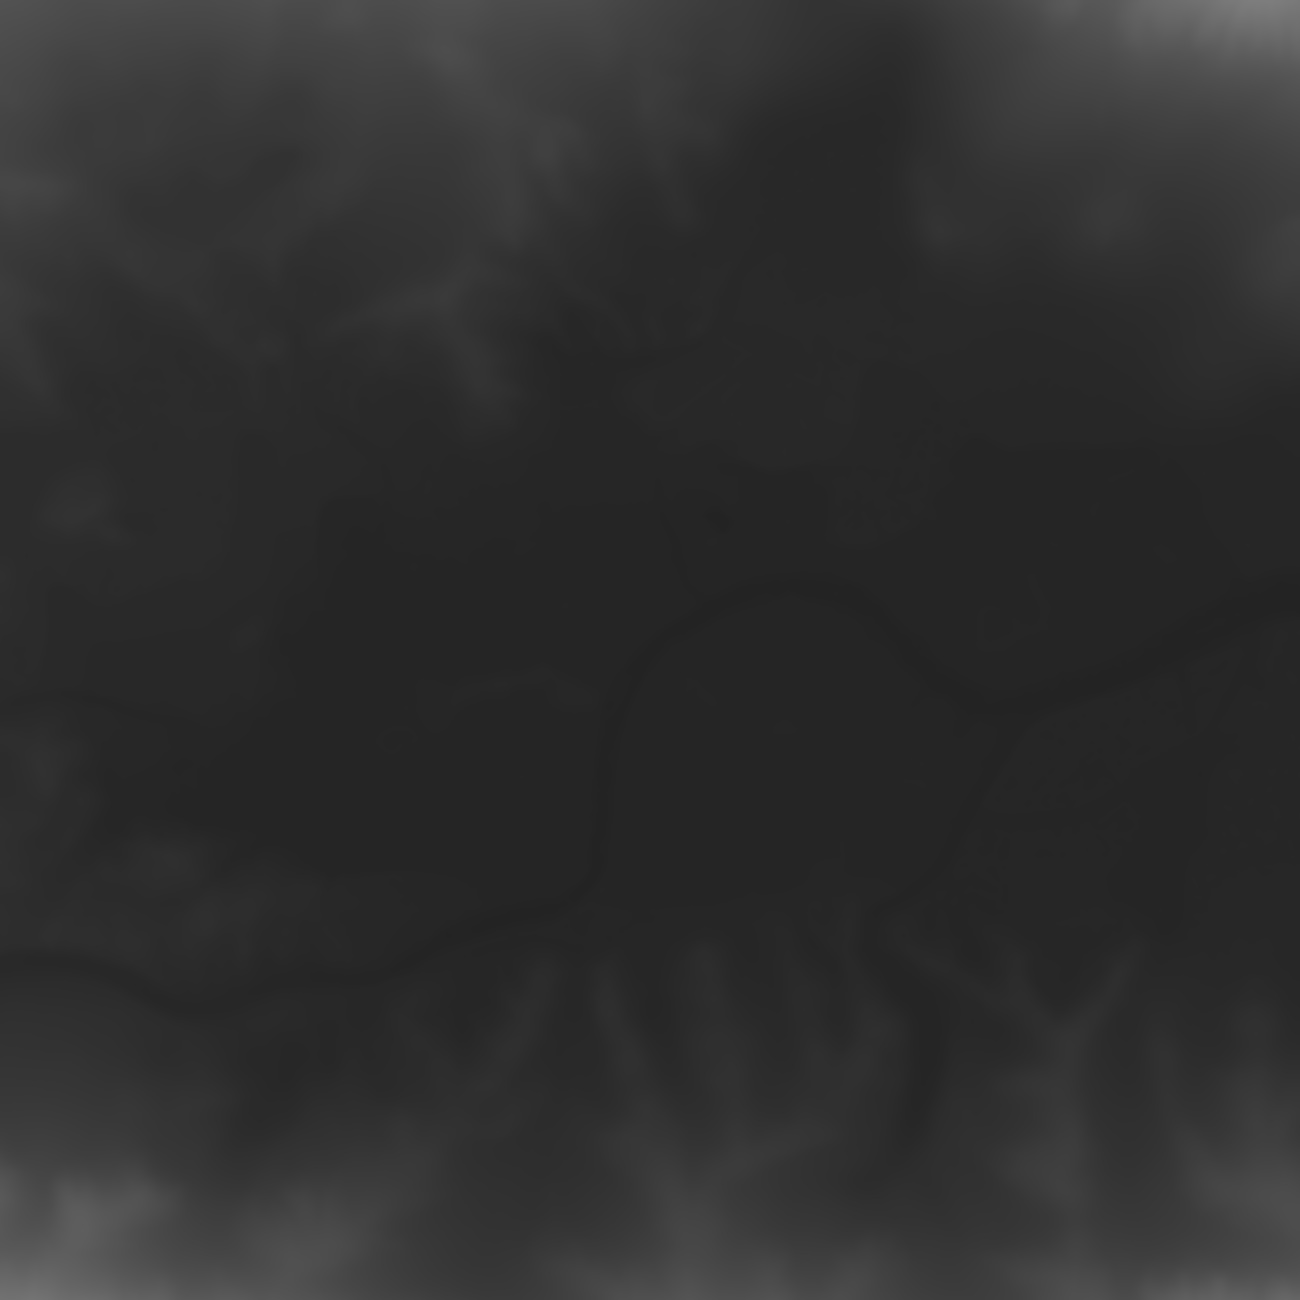
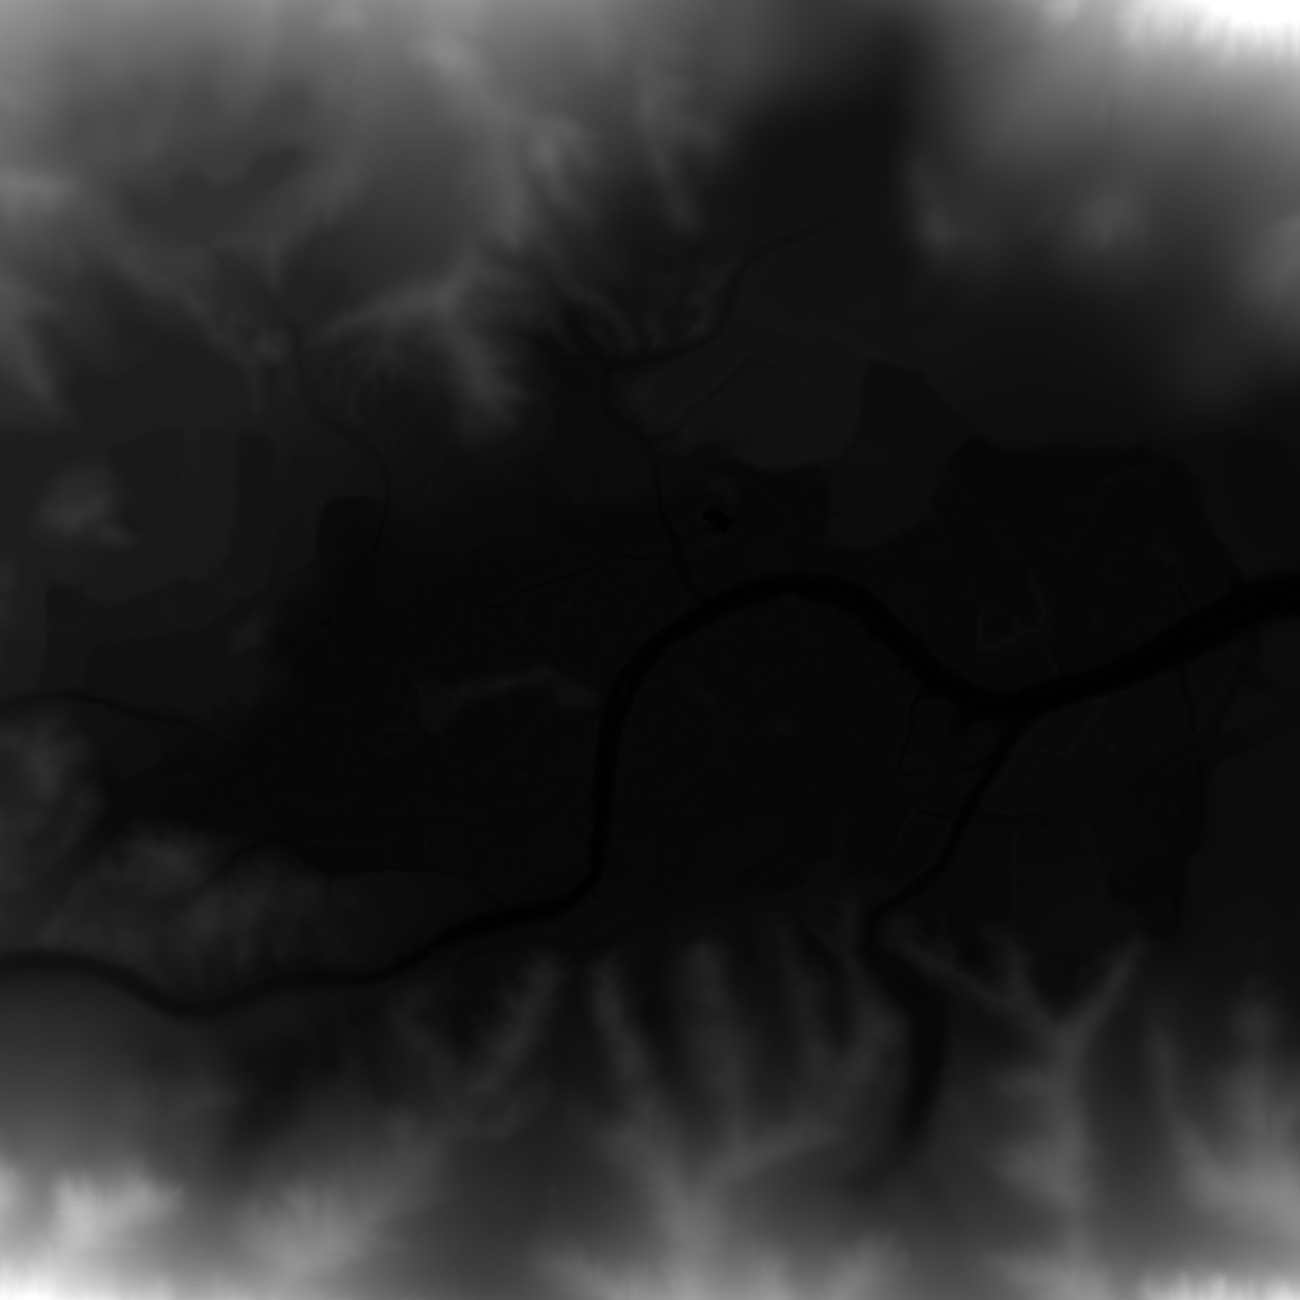
added more heightmaps and optimized existing ones.
added:

* belaya
* chora
* gorodok
* jensens
* logarvalley
* mestia
* yehorivka

optimized:

* foolsroad
* kohat
* sumari

diff --git a/public/js/MAPDATA.js b/public/js/MAPDATA.js
@@ -19,21 +19,21 @@
   }
 
   // imageOverlays for each map
-  // bounds calculated by taking screenshots in-game and counting pixels (of grid)
+  // bounds calculated from Squad SDK
   const albasrah = L.tileLayer("./maps/albasrah/{z}_{x}_{y}.jpg", getTileOps([3200, 3200]));
-  const belaya = L.tileLayer("./maps/belaya/{z}_{x}_{y}.jpg", getTileOps([3913, 3913]));
-  const chora = L.tileLayer("./maps/chora/{z}_{x}_{y}.jpg", getTileOps([4073, 4073]));
+  const belaya = L.tileLayer("./maps/belaya/{z}_{x}_{y}.jpg", getTileOps([3905, 3905]));
+  const chora = L.tileLayer("./maps/chora/{z}_{x}_{y}.jpg", getTileOps([4064, 4064]));
   const foolsroad = L.tileLayer("./maps/foolsroad/{z}_{x}_{y}.jpg", getTileOps([1774, 1736]));
   const forest = L.tileLayer("./maps/forest/{z}_{x}_{y}.jpg", getTileOps([1200, 1200]));
-  const gorodok = L.tileLayer("./maps/gorodok/{z}_{x}_{y}.jpg", getTileOps([4347, 4347]));
-  const jensens = L.tileLayer("./maps/jensens/{z}_{x}_{y}.jpg", getTileOps([1513, 1513]));
+  const gorodok = L.tileLayer("./maps/gorodok/{z}_{x}_{y}.jpg", getTileOps([4340, 4340]));
+  const jensens = L.tileLayer("./maps/jensens/{z}_{x}_{y}.jpg", getTileOps([1510, 1510]));  
   const kohat = L.tileLayer("./maps/kohat/{z}_{x}_{y}.jpg", getTileOps([4017, 4017]));
   const kokan = L.tileLayer("./maps/kokan/{z}_{x}_{y}.jpg", getTileOps([2500, 2500]));
-  const logarvalley = L.tileLayer("./maps/logarvalley/{z}_{x}_{y}.jpg", getTileOps([1765, 1765]));
-  const mestia = L.tileLayer("./maps/mestia/{z}_{x}_{y}.jpg", getTileOps([2403, 2403]));
+  const logarvalley = L.tileLayer("./maps/logarvalley/{z}_{x}_{y}.jpg", getTileOps([1761, 1761]));
+  const mestia = L.tileLayer("./maps/mestia/{z}_{x}_{y}.jpg", getTileOps([2400, 2400]));
   const narva = L.tileLayer("./maps/narva/{z}_{x}_{y}.jpg", getTileOps([2805, 2805]));
   const sumari = L.tileLayer("./maps/sumari/{z}_{x}_{y}.jpg", getTileOps([1300, 1300]));
-  const yehorivka = L.tileLayer("./maps/yehorivka/{z}_{x}_{y}.jpg", getTileOps([4041, 4041]));
+  const yehorivka = L.tileLayer("./maps/yehorivka/{z}_{x}_{y}.jpg", getTileOps([4034, 4034]));
 
   MAPDATA = {
     "Al Basrah": {
@@ -55,6 +55,10 @@
     },
     "Belaya": {
       map: belaya,
+      heightmap: {
+        url: "./maps/belaya/heightmap_optimized.jpg",
+        scale: ((20 * 2) * 1.00) / 256, // 58
+      },
       locations: [
         Utils.createLocation("Militia Main", [3221, 554]),
         Utils.createLocation("Radio Station", [2507, 1433]),
@@ -67,6 +71,10 @@
     },
     "Chora Valley": {
       map: chora,
+      heightmap: {
+        url: "./maps/chora/heightmap_optimized.jpg",
+        scale: ((4 * 2) * 4.00) / 256, // 57 | 5
+      },
       locations: [
         Utils.createLocation("Russia Main", [2730, 600]),
         Utils.createLocation("Monolith", [2345, 850]),
@@ -89,7 +97,7 @@
       map: foolsroad,
       heightmap: {
         url: "./maps/foolsroad/heightmap.jpg",
-        scale: (512 * 3.20) / 256,
+        scale: ((13 * 2) * 3.20) / 256,
       },
       locations: [
         Utils.createLocation("Russian Main", [1718, 1584]),
@@ -118,6 +126,10 @@
     },
     "Gorodok": {
       map: gorodok,
+      heightmap: {
+        url: "./maps/gorodok/heightmap.jpg",
+        scale: ((4 * 2) * 10.00) / 256,
+      },
       locations: [
         Utils.createLocation("Militia Camp", [3608, 775]),
         Utils.createLocation("Desna", [3264, 1405]),
@@ -131,6 +143,10 @@
     },
     "Jensen's Range": {
       map: jensens,
+      heightmap: {
+        url: "./maps/jensens/heightmap.jpg",
+        scale: ((230 * 2) * 0.15) / 256,
+      },
       locations: [
         Utils.createLocation("US Main", [336, 800]),
         Utils.createLocation("Vehicles", [599, 977]),
@@ -140,7 +156,7 @@
       map: kohat,
       heightmap: {
         url: "./maps/kohat/heightmap.jpg",
-        scale: (512 * 0.75) / 256,
+        scale: ((242 * 2) * 0.75) / 256,
       },
       locations: [
         Utils.createLocation("US Main", [1453, 2666]),
@@ -174,6 +190,10 @@
     },
     "Logar Valley": {
       map: logarvalley,
+      heightmap: {
+        url: "./maps/logarvalley/heightmap_optimized.jpg",
+        scale: ((68 * 2) * 0.50) / 256, // 123
+      },
       locations: [
         Utils.createLocation("Old Militia Main", [692, 144]),
         Utils.createLocation("Mechanic Shop", [1018, 123]),
@@ -192,6 +212,10 @@
     },
     "Mestia": {
       map: mestia,
+      heightmap: {
+        url: "./maps/mestia/heightmap_optimized.jpg",
+        scale: ((82 * 2) * 1.20) / 256, // 96
+      },
       locations: [
         Utils.createLocation("Militia Main", [1062, 233]),
         Utils.createLocation("The Armory", [1318, 594]),
@@ -240,8 +264,8 @@
     "Sumari Bala": {
       map: sumari,
       heightmap: {
-        url: "./maps/sumari/heightmap.jpg",
-        scale: (512 * 0.75) / 256,
+        url: "./maps/sumari/heightmap_optimized.jpg",
+        scale: ((12 * 2) * 0.75) / 256, // 80
       },
       locations: [
         Utils.createLocation("US Main", [743, 137]),
@@ -262,6 +286,10 @@
     },
     "Yehorivka": {
       map: yehorivka,
+      heightmap: {
+        url: "./maps/yehorivka/heightmap.jpg",
+        scale: ((18 * 2) * 4.00) / 256,
+      },
       locations: [
         Utils.createLocation("Russian Main", [864, 986]),
         Utils.createLocation("Upper Petrivka", [1090, 2206]),
